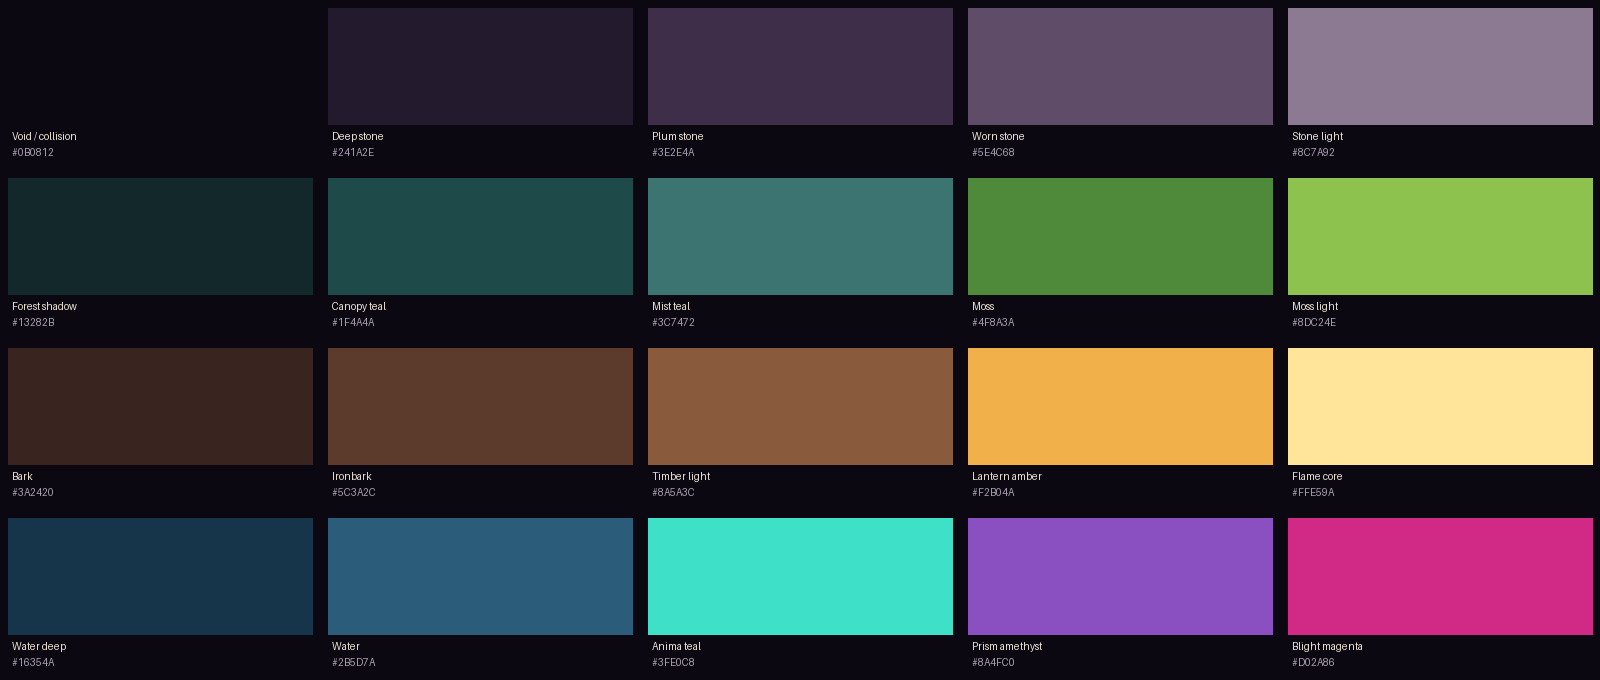
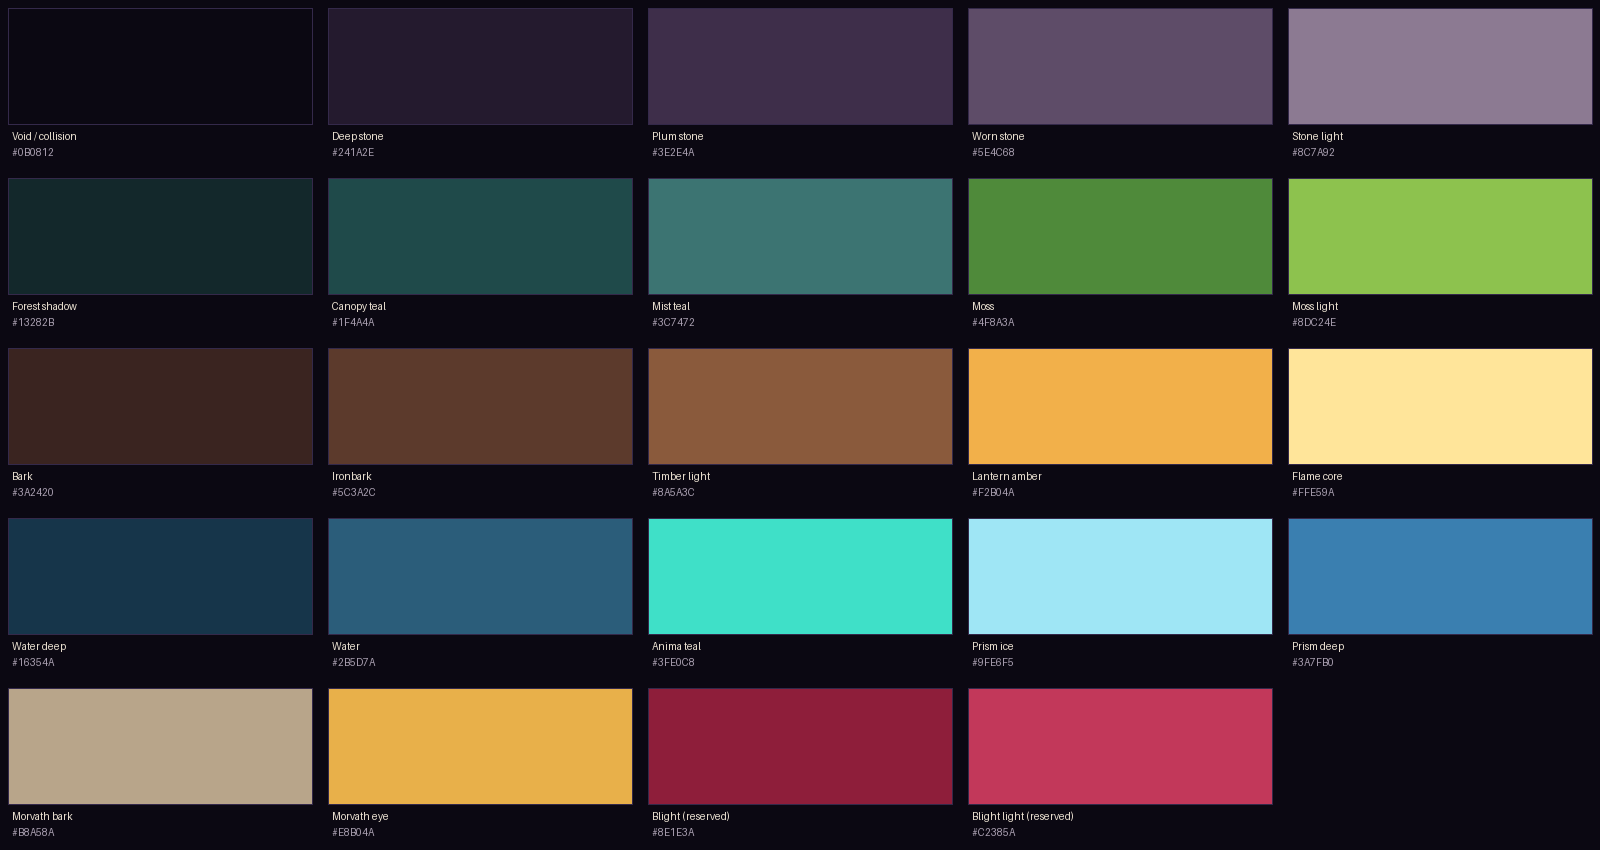
Apply colour language: icy-blue Prism, crimson Blight, amber-eyed bark for Morvath
Claude-Session: https://claude.ai/code/session_01SvL2i4yhX2odqCS85ey5ZS

diff --git a/docs/art-production/ironbark-environment-prompt-book.html b/docs/art-production/ironbark-environment-prompt-book.html
@@ -337,7 +337,7 @@ ul.checks li::before { content: ""; width: 14px; height: 14px; margin-top: 5px; 
           <li>It is real pixel art: hard square pixels on one even grid, no blur, no soft gradients, no anti-aliased edges.</li>
           <li>No text, labels, grid lines, swatches or watermarks.</li>
           <li>Transparent where the card says so, with no checkerboard or white fringe.</li>
-          <li>Magenta appears nowhere: it belongs to the Blight alone.</li>
+          <li>No crimson tendrils, red roots or magenta: those belong to the Blight alone.</li>
         </ul></div>
         <div class="kv"><h3>Terrain and masonry</h3><ul class="checks">
           <li>The walking line is dead straight: lay a ruler on it.</li>
@@ -439,7 +439,7 @@ ul.checks li::before { content: ""; width: 14px; height: 14px; margin-top: 5px; 
     ["Stone light", "#8C7A92"], ["Forest shadow", "#13282B"], ["Canopy teal", "#1F4A4A"], ["Mist teal", "#3C7472"],
     ["Moss", "#4F8A3A"], ["Moss light", "#8DC24E"], ["Bark", "#3A2420"], ["Ironbark", "#5C3A2C"],
     ["Timber light", "#8A5A3C"], ["Lantern amber", "#F2B04A"], ["Flame core", "#FFE59A"], ["Water deep", "#16354A"],
-    ["Water", "#2B5D7A"], ["Anima teal", "#3FE0C8"], ["Prism amethyst", "#8A4FC0"], ["Blight magenta (reserved)", "#D02A86"]
+    ["Water", "#2B5D7A"], ["Anima teal", "#3FE0C8"], ["Prism ice", "#9FE6F5"], ["Prism deep", "#3A7FB0"], ["Morvath bark", "#B8A58A"], ["Blight crimson (reserved)", "#8E1E3A"]
   ];
 
   // ---------------------------------------------------------------------------
@@ -457,7 +457,7 @@ ul.checks li::before { content: ""; width: 14px; height: 14px; margin-top: 5px; 
       "- Pixel scale x" + scale + ": every art pixel is an exact " + scale + " x " + scale + " px square of one flat colour, aligned to a " + scale + " px grid from the top-left corner. No anti-aliasing, no blur, no smooth gradients, no sub-pixel detail, no soft brushes.",
       "- Strict orthographic side view, like a 2D platformer: no perspective, no camera tilt, no visible top surfaces, no vanishing points.",
       "- Soft ambient light from above, the same on every piece. No cast shadows onto the background, no bloom, no lens effects. Glows and halos around lights are made by the game: paint a lantern's flame and lit glass, never the halo around it.",
-      "- Colour rules: Lantern amber #F2B04A and flame #FFE59A mean warm light and safety. Anima teal #3FE0C8 means life-force and things the player can use. Prism amethyst #8A4FC0 belongs to the Prism. Blight magenta #D02A86 belongs to the Blight alone: never use it here. Moss #4F8A3A and #8DC24E are for living growth. Void #0B0812 is the deepest shadow and the inside of every solid mass.",
+      "- Colour rules: Lantern amber #F2B04A and flame #FFE59A mean warm light and safety. Anima teal #3FE0C8 means life-force and things the player can use. Icy blue #9FE6F5 and #3A7FB0 belong to the Prism and its shards. Crimson tendrils #8E1E3A and #C2385A belong to the Blight alone: never use crimson, blood-red or magenta here, and never paint red roots or vines. Moss #4F8A3A and #8DC24E are for living growth. Void #0B0812 is the deepest shadow and the inside of every solid mass.",
       "",
       "Canvas",
       "- Exact canvas: " + card.canvas + ".",
@@ -596,7 +596,7 @@ ul.checks li::before { content: ""; width: 14px; height: 14px; margin-top: 5px; 
         "TASK: a far parallax layer of silhouettes for Ironbark, transparent above the skyline.",
         "",
         "- A soft, hazy line of distant forest canopy and the ruined towers and aqueduct arches of an old civilisation, in two flat-ish values of misty teal-grey #3C7472 and #1F4A4A, very low contrast.",
-        "- Once, off-centre, very small and far away: the Sovereign Spire, a tall, slender, impossibly high tower of pale stone with a faint amethyst #8A4FC0 glint at its tip. It is a landmark, not the subject: no more than one fifth of the canvas height.",
+        "- Once, off-centre, very small and far away: the Sovereign Spire, a tall, slender, impossibly high tower of pale stone with a faint icy-blue #9FE6F5 glint at its tip. It is a landmark, not the subject: no more than one fifth of the canvas height.",
         "- The layer is solid from the skyline down to the bottom edge, fading to a flat mist colour at the bottom.",
         "- The left and right edges must join; keep the Spire away from both edges."
       ] },
@@ -643,7 +643,7 @@ ul.checks li::before { content: ""; width: 14px; height: 14px; margin-top: 5px; 
         "",
         "- A massive twisting trunk #3A2420 and #5C3A2C with deep bark grooves and moss, roots that spread wide at the bottom edge and grip stones, and a broad canopy of deep teal and green leaf masses that fills the top half.",
         "- One long branch reaches out to the right with an iron chain and a hanging lantern on it (paint the lantern lit: amber glass and flame, no halo).",
-        "- Twisting through the bark of the crown: three or four dark red thorny roots, each ending in a knot with a single closed eye. They look dormant, almost asleep.",
+        "- Grown into the bark of the crown: three or four knots of pale, smooth bark #B8A58A, each with a single closed eye. They look dormant, almost asleep. No red anywhere on the tree.",
         "- A small Ironbark Guard shrine of stacked stones at the trunk's foot, with old offerings.",
         "- The trunk's lower part is drawn to sit behind the playfield floor; leave the bottom 128 px as roots only."
       ] },
@@ -666,10 +666,10 @@ ul.checks li::before { content: ""; width: 14px; height: 14px; margin-top: 5px; 
         "TASK: an Oru'Vex Prism-shard shrine, in two states, side by side on a transparent canvas, each in a 1408 px wide cell with transparent space between.",
         "",
         "- A raised stone dais with a short flight of steps, inside a great carved octagonal stone frame with quatrefoil openings, as in mockup D. The ground line at the bottom is perfectly straight.",
-        "- Rising from the dais: a cluster of dark Prism crystal pillars #3E2E4A tinged with #8A4FC0, a stone brazier in front.",
+        "- Rising from the dais: a cluster of Prism crystal shards, icy blue #3A7FB0 with paler facets #9FE6F5, a stone brazier in front. (Mockup D shows purple crystals and thorns: ignore those colours.)",
         "- In the base of the frame, on the right: a small empty socket shaped for a crystal, dark and lifeless.",
         "- LEFT, dormant: the brazier is cold, the crystals dull.",
-        "- RIGHT, awakened: the brazier burns amber (flame only, no halo), the crystals hold a soft inner amethyst light, and thin lines of Anima teal #3FE0C8 trace the carvings.",
+        "- RIGHT, awakened: the brazier burns amber (flame only, no halo), the crystals hold a soft inner icy-blue light, and thin lines of Anima teal #3FE0C8 trace the carvings.",
         "- No Blight thorns in either state: this shrine is still clean."
       ] },
     { id: "L4", group: "landmarks", file: "landmark_arch_bridge", title: "The broken arch bridge",
@@ -772,15 +772,15 @@ ul.checks li::before { content: ""; width: 14px; height: 14px; margin-top: 5px; 
         "- No fire is shown: the game adds it."
       ] },
     { id: "GT3", group: "gates", file: "gate_thorn_knot", title: "Thorn knot (Thorn-Line: T1)",
-      about: "Morvath's anchor. Crimson, one eye. Dormant in Ironbark from the first minute; it wakes once Kleo has the Thorn-Line.",
+      about: "Morvath's anchor. Pale bark, one amber eye, never red. Dormant in Ironbark from the first minute; it wakes once Kleo has the Thorn-Line.",
       canvas: "1024×512 px (art 128 × 64 px at x8)", game: "2 tiles × 2 tiles, 2 states", attach: ["A", "B"],
       text: [
-        "TASK: a knot of dark red thorny roots with a single eye at its centre, in two states side by side on a transparent canvas.",
+        "TASK: a knot of pale, smooth, twisted bark with short thorns and a single eye at its centre, in two states side by side on a transparent canvas.",
         "",
-        "- LEFT, dormant: the eye is closed, the thorns dull dark red #6A1E28.",
-        "- RIGHT, awake: the eye is open, an amber-gold iris, and the thorns a brighter crimson #B0303C. It looks alert, not evil.",
+        "- LEFT, dormant: the eye is closed, the bark a dull pale grey-brown #8C7B66.",
+        "- RIGHT, awake: the eye is open with an amber-gold iris #E8B04A, the bark brighter #B8A58A with thin copper veins. It looks alert, wise and old, not evil.",
         "- Short root ends on all four sides, so it can sit inside bark or stone.",
-        "- Crimson must stay clearly different from magenta: this is Morvath, not the Blight."
+        "- No red, crimson or magenta at all: red tendrils are the Blight, and this is Morvath."
       ] },
     { id: "GT4", group: "gates", file: "gate_prism_socket", title: "Prism socket (Anima Siphon: S1)",
       about: "An empty Oru'Vex socket set in stone. Gold-edged, dark, and patient until the last act.",
@@ -789,7 +789,7 @@ ul.checks li::before { content: ""; width: 14px; height: 14px; margin-top: 5px; 
         "TASK: a socket set into a carved stone block, in two states side by side on a transparent canvas.",
         "",
         "- LEFT, empty: a faceted hollow edged with tarnished gold, dark inside, the carved lines around it dead.",
-        "- RIGHT, powered: a Prism crystal seated in it, glowing amethyst #8A4FC0, and the carved lines around it filled with Anima teal #3FE0C8.",
+        "- RIGHT, powered: a Prism shard seated in it, glowing icy blue #9FE6F5, and the carved lines around it filled with Anima teal #3FE0C8.",
         "- The block's four edges are straight so it sits flush in a wall."
       ] }
   ];

diff --git a/design/world-and-regions.md b/design/world-and-regions.md
@@ -20,7 +20,7 @@ Companion to `ability-atlas.md`. Based on the macro map mockup
    Vexari too.
 
 ### What it means in play
-- **The map tells it:** Blight veins (magenta) radiate *out of the Prism* at
+- **The map tells it:** Blight veins (crimson-magenta on the map, red tendrils in the world) radiate *out of the Prism* at
   the bottom of the map. A player who looks at the map can see where the
   rot comes from before anyone says it.
 - **It spreads by act.** The vein overlay grows at story beats, re-routing
@@ -167,11 +167,21 @@ suspicious of one another so nobody notices villagers vanishing.
 About 9 h on the critical path; about 12–15 h with rescues, secrets and the
 Tide-Weaver and Orun content.
 
+## 4a. Colour language (canon)
+
+| Thing | Colour | Notes |
+|---|---|---|
+| **The Sovereign Prism** and its shards | Icy blue-cyan `#9FE6F5`, deep `#3A7FB0` | Mockup N and the macro map |
+| **The Blight** | Crimson tendrils `#8E1E3A`, highlight `#C2385A`; magenta veins on the map | Mockups I, M, N |
+| **Anima** (Kleo's magic, life-force) | Teal `#3FE0C8` | Spark, Lance, vats |
+| **Morvath** (thorn knots) | Pale bark `#B8A58A`, amber-gold eye `#E8B04A`; copper on the map | Never red |
+| **Warm safety** | Lantern amber `#F2B04A` | Saves, the Refuge |
+
 ## 4b. Gate legend (the map's coloured bars)
 
 Each gate colour means exactly one requirement for the whole game, and each
 is paired with an icon shape so the map stays readable for colour-blind
-players. **Magenta is reserved for the Blight.**
+players. **Crimson and magenta are reserved for the Blight.**
 
 | Colour | Icon | Requirement |
 |---|---|---|
@@ -181,10 +191,10 @@ players. **Magenta is reserved for the Blight.**
 | Sky white | Feather | Wing-Cloak |
 | Teal | Droplet | Deep-Glow Breath |
 | Pale violet | Spiral eye | Memory-Meld |
-| Crimson | Thorn knot | Thorn-Line |
-| Prism gold | Diamond socket | Anima Siphon |
+| Copper | Thorn knot | Thorn-Line |
+| Prism ice-blue | Diamond socket | Anima Siphon |
 | Silver | Voice sigil | Story gate (a Kindred Voice convinced) |
-| Magenta | Vein | Blight: spreads by act, cleared later by Siphon |
+| Crimson-magenta | Vein | Blight: spreads by act, cleared later by Siphon |
 
 The bars on the mockup stay conceptual until the lock-and-key registry
 assigns each one.

diff --git a/design/ability-atlas.md b/design/ability-atlas.md
@@ -198,21 +198,22 @@ abilities.
 - **Vocabulary:** swinging across Thorn Knot chains; pull a cocoon down from
   out of reach; rip shields off Carapax; drag a counterweight or bridge;
   yank a spider off a wall.
-- **Gate look:** a **red thorn knot with one closed eye** (the red vines in
-  mockup 5 are its early, dormant form).
+- **Gate look:** a **knot of pale, smooth bark with one closed amber-gold
+  eye** (copper on the map). It is deliberately *not* red: red tendrils are
+  the Blight.
 - **Combat:** a gap-closer, a shield-stripper, and a pull on small enemies.
 - **Combines with:** Glide (swing-release-glide), Ward (strip then bash),
   Meld (anchors that exist only in the past).
 - **Bypass:** **Hard.**
-- **Found:** from **Morvath**, who tests Kleo in her Observatory. The red
-  roots from minute 1 are her watching.
+- **Found:** from **Morvath**, who tests Kleo in her Observatory. The
+  closed-eyed knots from minute 1 are her watching.
 
 ### 8 · Anima Siphon (drain + power)
 - **Verb:** drain; give.
 - **Numbers:** a 3-tile tether. Draining heals and fills the Anima bar.
   Giving powers Oru'Vex machinery.
 - **Vocabulary:** power dead Spire lifts and doors; drain Blight crystals
-  (the purple growths in mockup 5) to clear Blightwater and Blight mist;
+  (the crimson growths in the mockups) to clear Blightwater and Blight mist;
   restore withered hub plants; drain enemies to heal.
 - **Gate look:** a **dark Prism crystal socket** (present from region 1).
 - **Combat:** a sustain/drain tether.
@@ -224,6 +225,9 @@ abilities.
 ---
 
 ## 2b. Spells: Kleo's Anima magic (teal bar)
+
+The caster in the Alchemist's works mockup (I) is Kleo, in a late-game
+look: the hat and long coat are an outfit she gains later.
 
 Kleo casts with the teal bar, which is her Anima. Both spells are teal
 because teal means Anima. The mockups show them: the orb in the Silk Mother
@@ -277,7 +281,7 @@ fight, the beam in the Alchemist's works.
 | Wing-Cloak | Chasm with a fluttering torn banner |
 | Deep-Glow | Dark, unlit deep water |
 | Memory-Meld | Flickering teal outline of a past structure |
-| Thorn-Line | Red thorn knot with a closed eye |
+| Thorn-Line | Pale bark knot with a closed amber-gold eye |
 | Anima Siphon | Empty dark-Prism socket |
 
 ## 4. Rescue tie-in (hub services)

diff --git a/design/lock-and-key.md b/design/lock-and-key.md
@@ -133,10 +133,10 @@ rescue or a truth).
 | M4 | Foundry | Walls that didn't exist before the Vexari | Hard | ✔ | A bypass |
 | M5 | High-Spire | Critical path after the Reveal | Hard | — | — |
 
-### 7 · Thorn-Line: crimson bar, thorn-knot icon
+### 7 · Thorn-Line: copper bar, thorn-knot icon
 | ID | Region | Where | H/S | Before key? | Return pays |
 |---|---|---|---|---|---|
-| T1 | Ironbark | Closed-eye thorn knots on the great tree's crown (the red roots that watch from minute 1) | Hard | ✔ | The tree's crown: a vista of the Spire and a Voice beat |
+| T1 | Ironbark | Closed-eyed bark knots on the great tree's crown (Morvath watching from minute 1) | Hard | ✔ | The tree's crown: a vista of the Spire and a Voice beat |
 | T2 | Hearth-Plains | Knots over the silk-farm ravine | Hard | ✔ | A secret |
 | T3 | Fen-Stalker | Knot chains across the bog | Hard | ✔ | The Observatory back door, a loop |
 | T4 | Tide-Weaver | Knots over the tide gate | Hard | ✔ | A Tide-Weaver rescue |
@@ -157,7 +157,7 @@ rescue or a truth).
 | V1 | Refuge → High-Spire | Hearth-Plains + Dusk-Drifter Voices convinced (the High-Spire won't receive an Ironbark guard otherwise) |
 | V2 | Sovereign Prism | All seven Voice Sigils united |
 
-### The Blight: magenta, a state, not a key
+### The Blight: crimson tendrils, a state, not a key
 Blight veins spread at **act 2** (after the Reveal) and **act 3** (after the
 Siphon), re-routing earlier regions. Anima Siphon drains Blight crystals,
 so the Blight is both a new lock and its own key.
